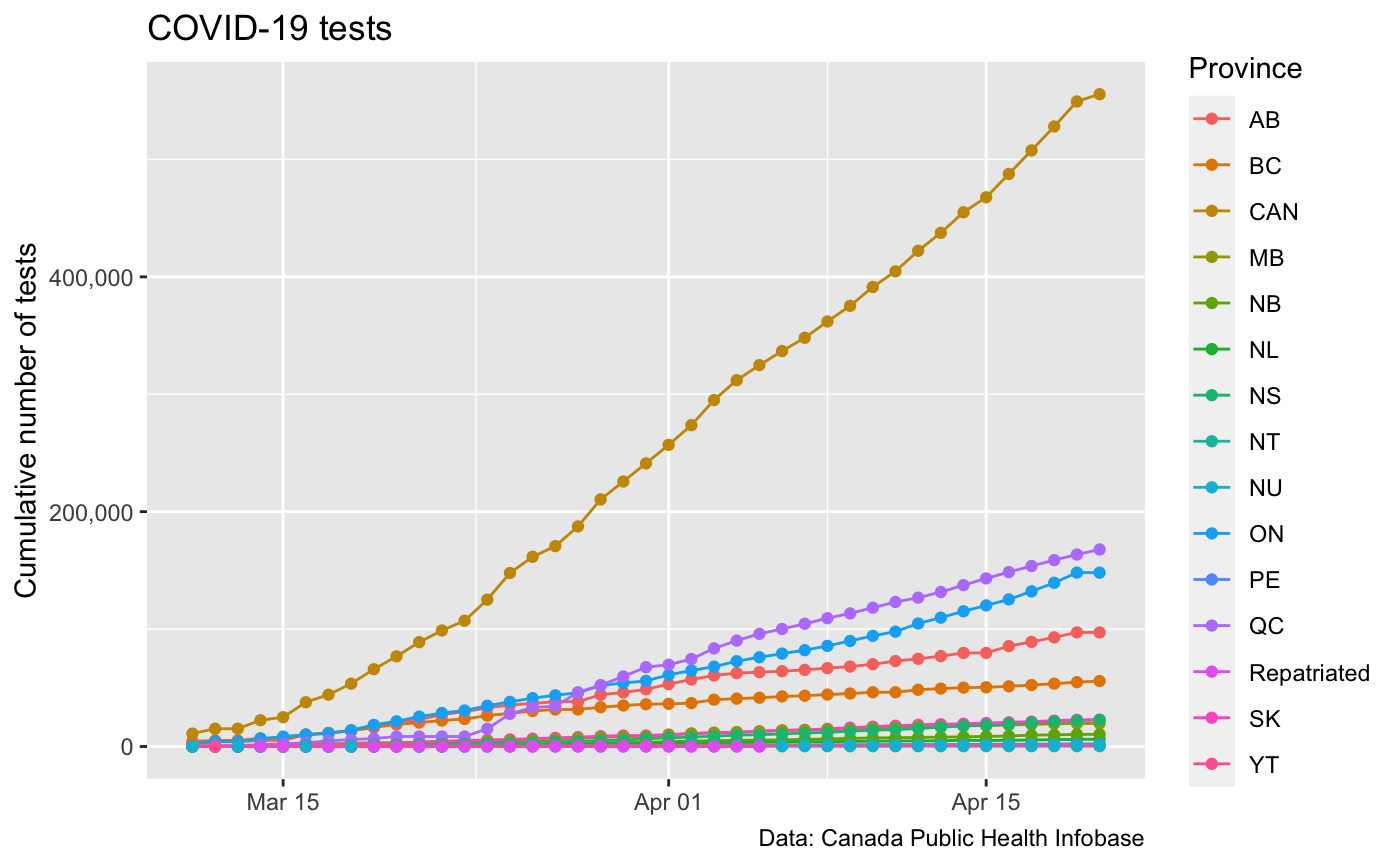
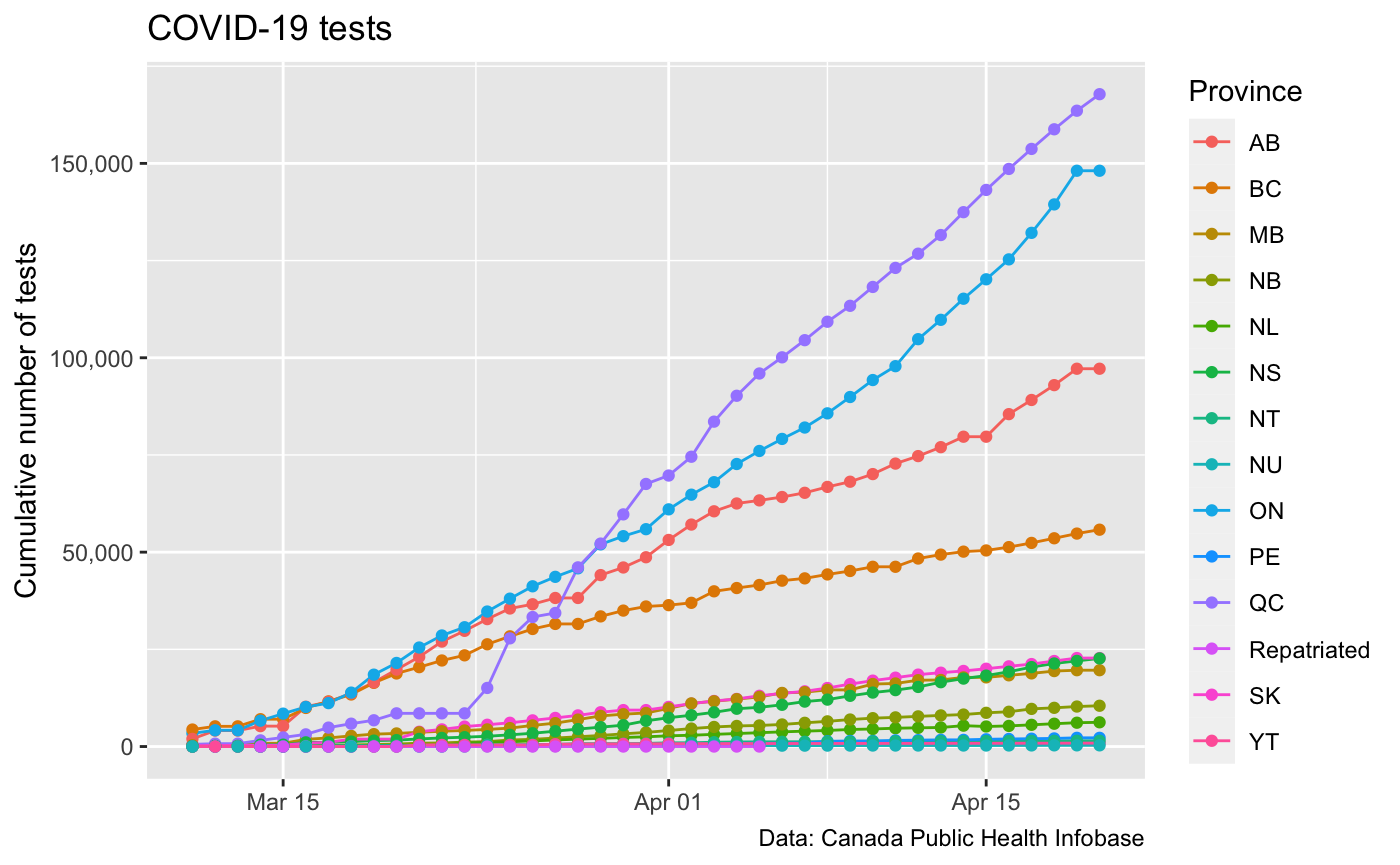
remove overall canada tests from testing vignette

diff --git a/docs/articles/testing.html b/docs/articles/testing.html
@@ -105,12 +105,14 @@
 <span id="cb2-2"><a href="#cb2-2"></a>test_data_official &lt;-<span class="st"> </span><span class="kw"><a href="../reference/get_canada_official_provincial_data.html">get_canada_official_provincial_data</a></span>() <span class="op">%&gt;%</span></span>
 <span id="cb2-3"><a href="#cb2-3"></a><span class="st">  </span><span class="kw"><a href="https://dplyr.tidyverse.org/reference/filter.html">filter</a></span>(<span class="op">!</span><span class="kw"><a href="https://rdrr.io/r/base/NA.html">is.na</a></span>(Tested))</span>
 <span id="cb2-4"><a href="#cb2-4"></a></span>
-<span id="cb2-5"><a href="#cb2-5"></a><span class="kw"><a href="https://ggplot2.tidyverse.org/reference/ggplot.html">ggplot</a></span>(test_data_official,<span class="kw"><a href="https://ggplot2.tidyverse.org/reference/aes.html">aes</a></span>(<span class="dt">x=</span>Date,<span class="dt">y=</span>Tested,<span class="dt">color=</span>shortProvince)) <span class="op">+</span></span>
-<span id="cb2-6"><a href="#cb2-6"></a><span class="st">  </span><span class="kw"><a href="https://ggplot2.tidyverse.org/reference/geom_path.html">geom_line</a></span>() <span class="op">+</span></span>
-<span id="cb2-7"><a href="#cb2-7"></a><span class="st">  </span><span class="kw"><a href="https://ggplot2.tidyverse.org/reference/geom_point.html">geom_point</a></span>() <span class="op">+</span></span>
-<span id="cb2-8"><a href="#cb2-8"></a><span class="st">  </span><span class="kw"><a href="https://ggplot2.tidyverse.org/reference/scale_continuous.html">scale_y_continuous</a></span>(<span class="dt">labels=</span>scales<span class="op">::</span>comma) <span class="op">+</span></span>
-<span id="cb2-9"><a href="#cb2-9"></a><span class="st">  </span><span class="kw"><a href="https://ggplot2.tidyverse.org/reference/labs.html">labs</a></span>(<span class="dt">title=</span><span class="st">"COVID-19 tests"</span>,<span class="dt">x=</span><span class="ot">NULL</span>,<span class="dt">y=</span><span class="st">"Cumulative number of tests"</span>,<span class="dt">color=</span><span class="st">"Province"</span>,</span>
-<span id="cb2-10"><a href="#cb2-10"></a>       <span class="dt">caption=</span><span class="st">"Data: Canada Public Health Infobase"</span>)</span></code></pre></div>
+<span id="cb2-5"><a href="#cb2-5"></a>test_data_official <span class="op">%&gt;%</span></span>
+<span id="cb2-6"><a href="#cb2-6"></a><span class="st">  </span><span class="kw"><a href="https://dplyr.tidyverse.org/reference/filter.html">filter</a></span>(shortProvince <span class="op">!=</span><span class="st"> "CAN"</span>) <span class="op">%&gt;%</span></span>
+<span id="cb2-7"><a href="#cb2-7"></a><span class="st">  </span><span class="kw"><a href="https://ggplot2.tidyverse.org/reference/ggplot.html">ggplot</a></span>(<span class="kw"><a href="https://ggplot2.tidyverse.org/reference/aes.html">aes</a></span>(<span class="dt">x=</span>Date,<span class="dt">y=</span>Tested,<span class="dt">color=</span>shortProvince)) <span class="op">+</span></span>
+<span id="cb2-8"><a href="#cb2-8"></a><span class="st">  </span><span class="kw"><a href="https://ggplot2.tidyverse.org/reference/geom_path.html">geom_line</a></span>() <span class="op">+</span></span>
+<span id="cb2-9"><a href="#cb2-9"></a><span class="st">  </span><span class="kw"><a href="https://ggplot2.tidyverse.org/reference/geom_point.html">geom_point</a></span>() <span class="op">+</span></span>
+<span id="cb2-10"><a href="#cb2-10"></a><span class="st">  </span><span class="kw"><a href="https://ggplot2.tidyverse.org/reference/scale_continuous.html">scale_y_continuous</a></span>(<span class="dt">labels=</span>scales<span class="op">::</span>comma) <span class="op">+</span></span>
+<span id="cb2-11"><a href="#cb2-11"></a><span class="st">  </span><span class="kw"><a href="https://ggplot2.tidyverse.org/reference/labs.html">labs</a></span>(<span class="dt">title=</span><span class="st">"COVID-19 tests"</span>,<span class="dt">x=</span><span class="ot">NULL</span>,<span class="dt">y=</span><span class="st">"Cumulative number of tests"</span>,<span class="dt">color=</span><span class="st">"Province"</span>,</span>
+<span id="cb2-12"><a href="#cb2-12"></a>       <span class="dt">caption=</span><span class="st">"Data: Canada Public Health Infobase"</span>)</span></code></pre></div>
 <p><img src="testing_files/figure-html/unnamed-chunk-2-1.png" width="700"></p>
 <div class="sourceCode" id="cb3"><pre class="sourceCode r"><code class="sourceCode r"><span id="cb3-1"><a href="#cb3-1"></a><span class="co">#case_data &lt;- get_canada_covid_working_group_provincial_data()</span></span>
 <span id="cb3-2"><a href="#cb3-2"></a><span class="co">#inner_join(case_data,test_data,by=c("shortProvince","Province","Date")) %&gt;%</span></span>
